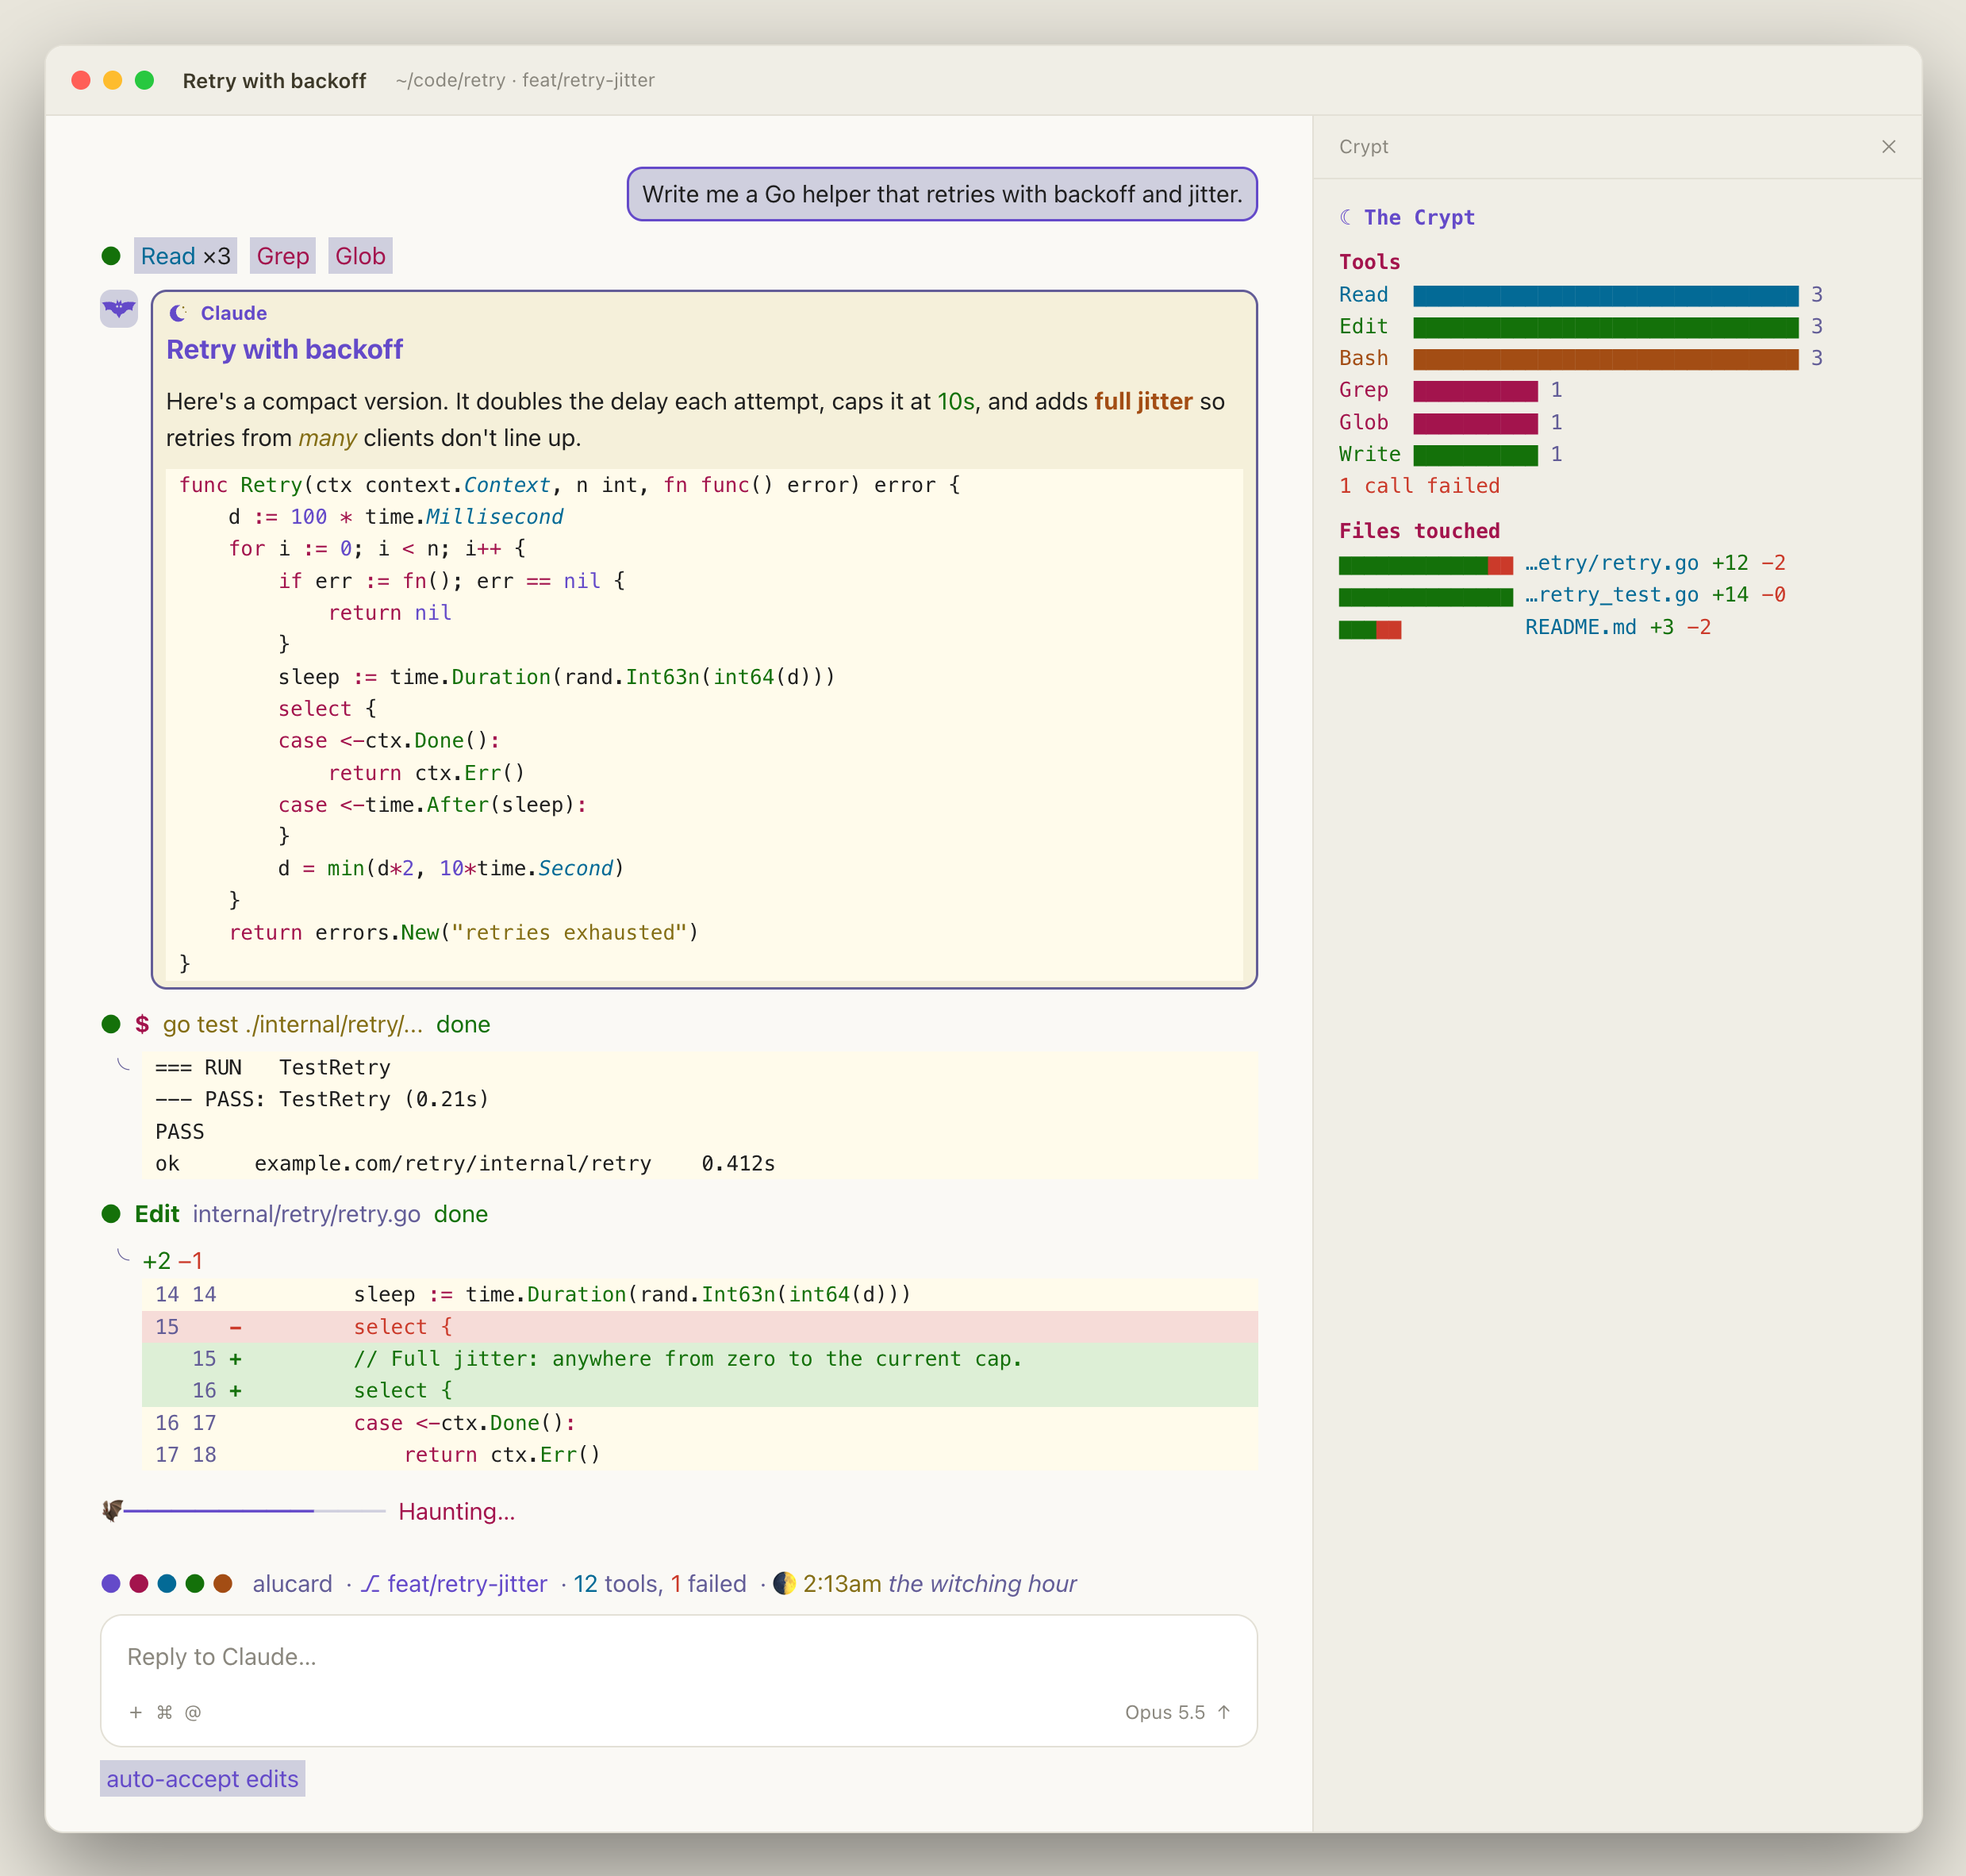
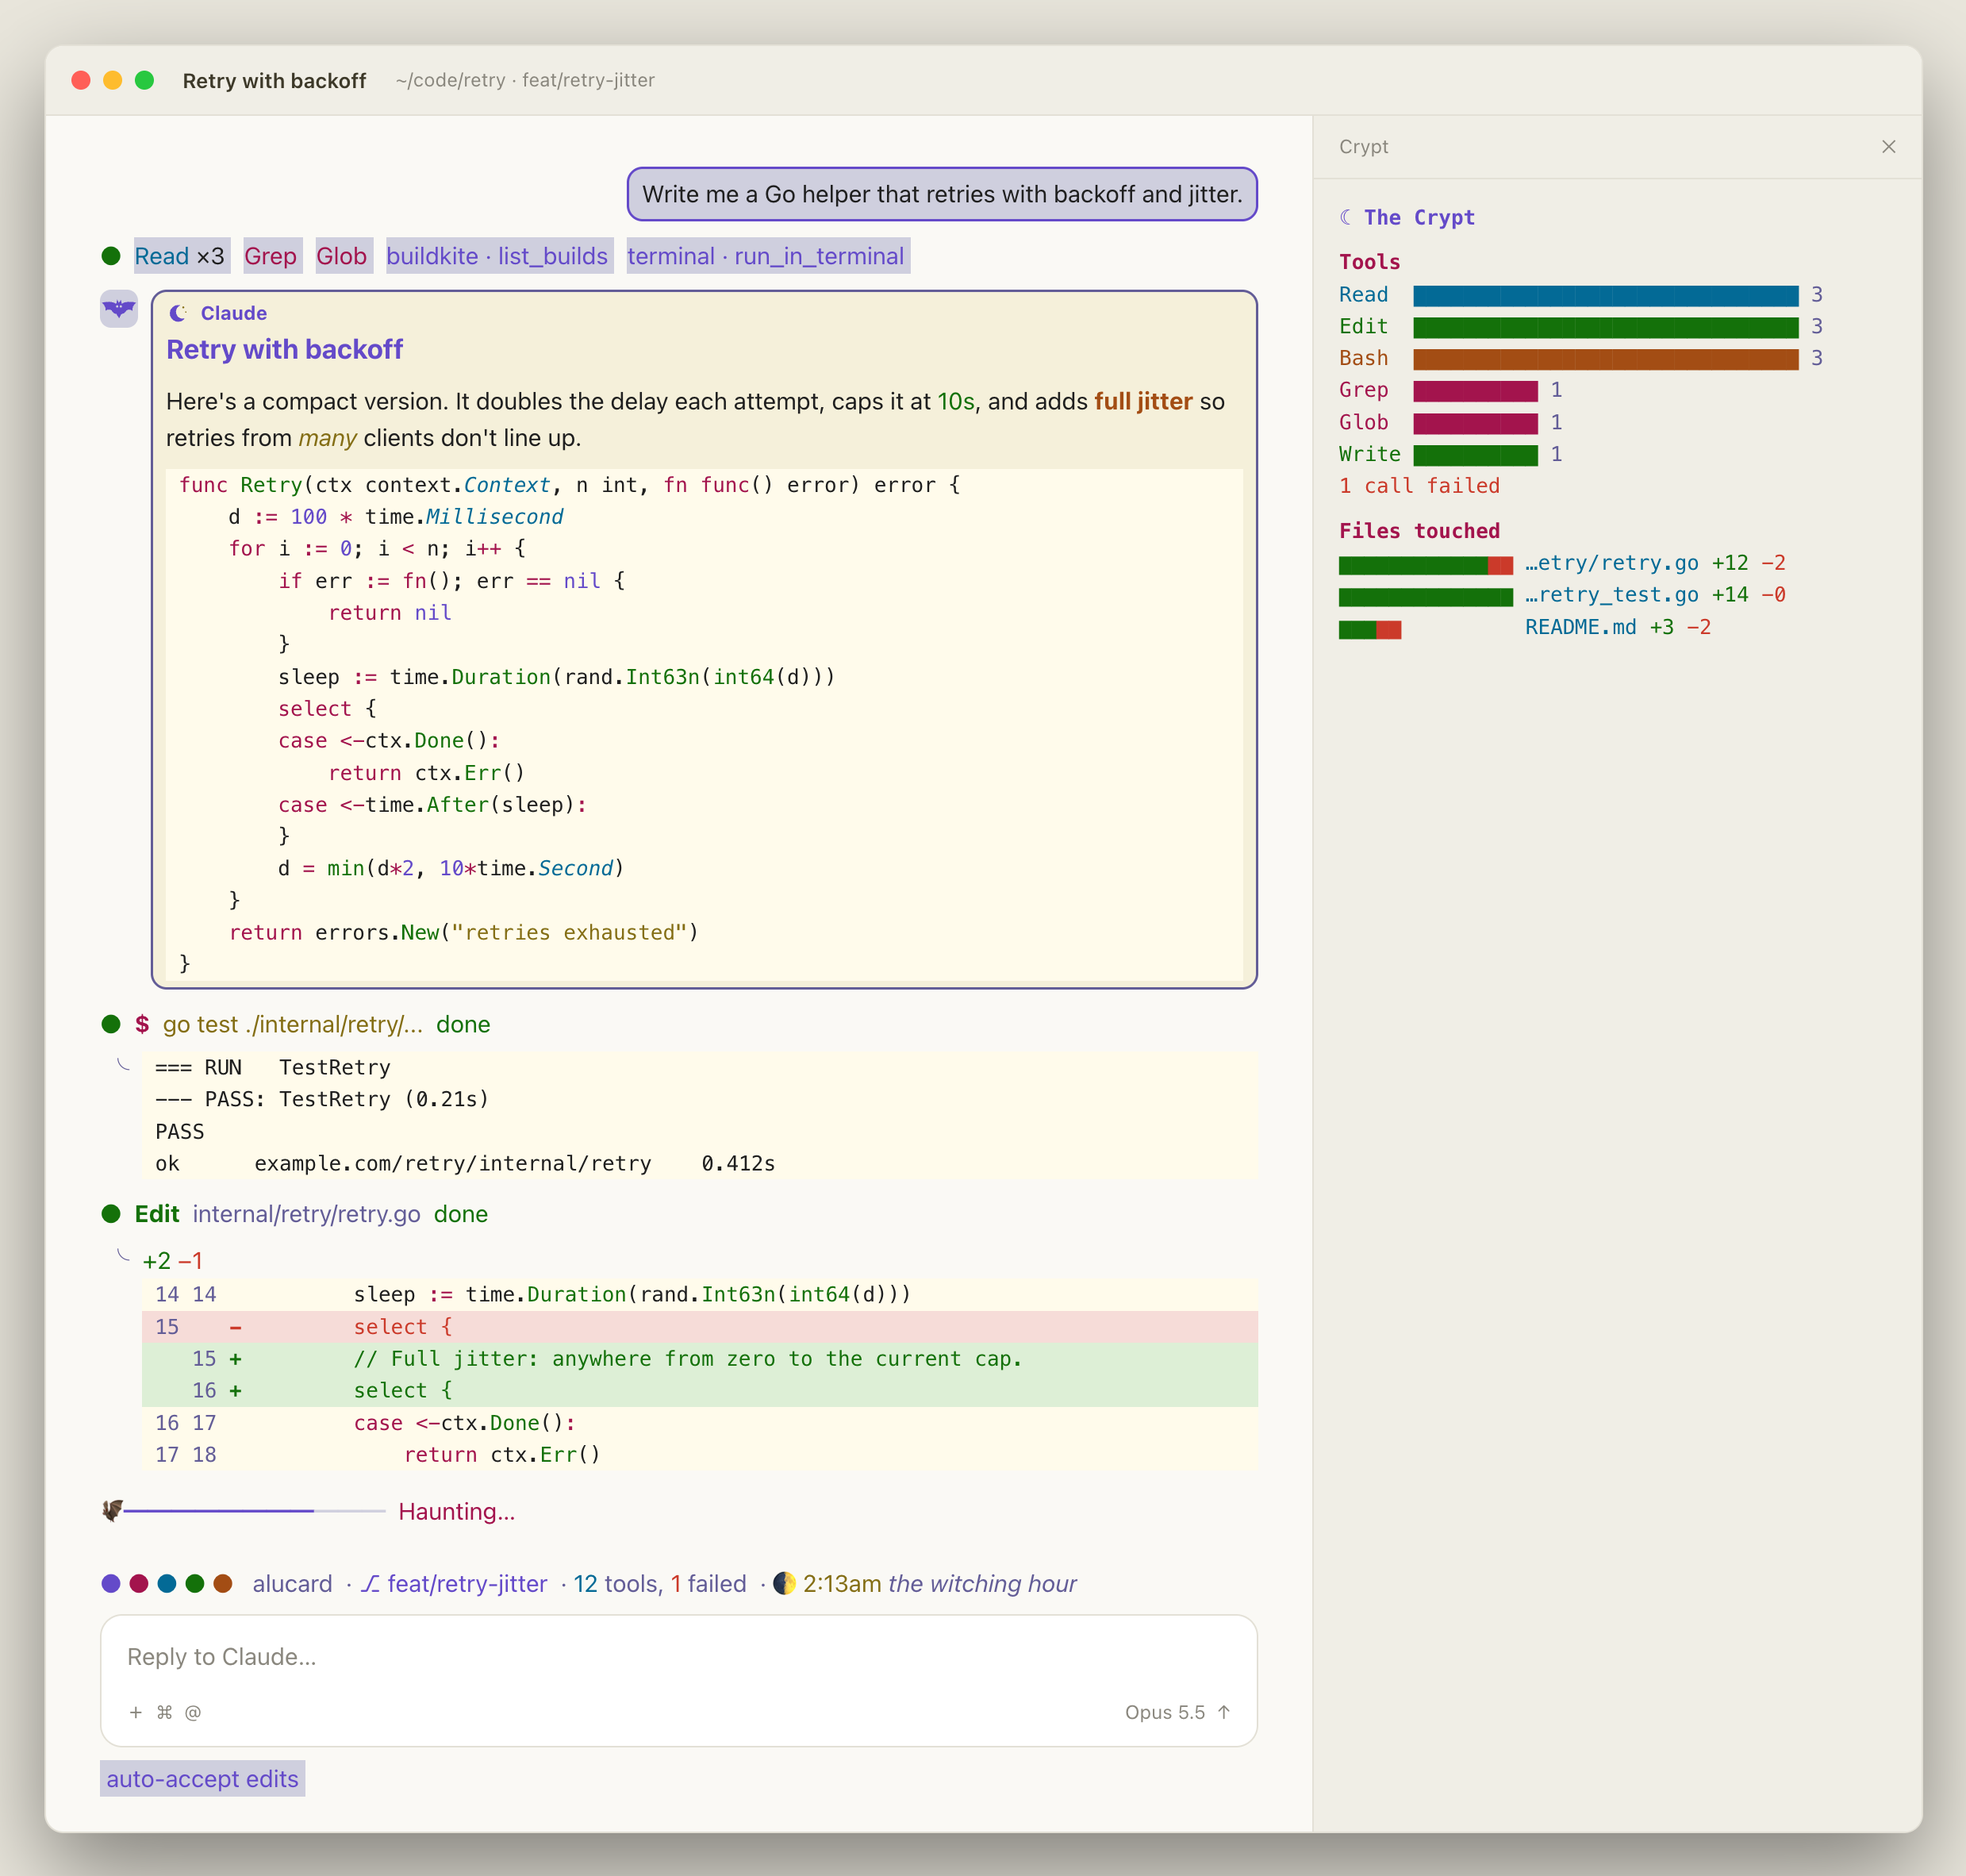
Keep tool chips on one line and name MCP tools server · tool
Long MCP names like mcp__plugin_buildkite-tools_buildkite__list_builds
wrapped inside their chips, so a row's chips broke and misaligned. Chips
now truncate instead of wrapping, the row wraps between chips, and MCP
tools read as server · tool (a plugin's prefix and connector UUIDs dropped)
in chips, the call row and the crypt pane.

Changed region(s): [[0.0621, 0.1235, 0.4661, 0.1544]]

diff --git a/hooks/register.tsx b/hooks/register.tsx
@@ -20,7 +20,7 @@ import {
   themed,
 } from './tokens'
 import type { Palette } from './tokens'
-import { changeCounts, drawGroup, drawResult, toolColor } from './tools'
+import { changeCounts, drawGroup, drawResult, toolColor, toolName } from './tools'
 
 const STORE_KEY = 'settings'
 const settings = atom({ plugin: 'dracula', key: 'settings' } as const, {
@@ -87,6 +87,11 @@ function draw(dracula: () => JSX.Element, plain: () => JSX.Element): JSX.Element
   } catch {
     return plain()
   }
+}
+
+/** Text cut to a width with an ellipsis, or padded out to it. */
+function fit(text: string, width: number): string {
+  return text.length > width ? `${text.slice(0, width - 1)}…` : text.padEnd(width)
 }
 
 /** The checkout's branch, or null outside a git repository. */
@@ -442,7 +447,7 @@ export const register: Register = on => {
           </Text>
         ) : (
           <Text color={toolColor(e.props.tool, c)} bold>
-            {e.props.tool}
+            {toolName(e.props.tool)}
           </Text>
         )}
         {arg.length > 0 && (
@@ -628,7 +633,7 @@ export const register: Register = on => {
     const width = Math.max(20, e.props.bodyColumns)
     const tools = Object.entries(stats.tools).sort((a, b) => b[1] - a[1])
     const files = [...stats.files].sort((a, b) => b.added + b.removed - (a.added + a.removed))
-    const nameWidth = Math.min(14, Math.max(4, ...tools.map(([tool]) => tool.length)))
+    const nameWidth = Math.min(14, Math.max(4, ...tools.map(([tool]) => toolName(tool).length)))
     const toolMax = Math.max(1, ...tools.map(([, n]) => n))
     const barRoom = Math.max(4, width - nameWidth - 8)
     const fileMax = Math.max(1, ...files.map(file => file.added + file.removed))
@@ -653,7 +658,7 @@ export const register: Register = on => {
             </Text>
             {tools.map(([tool, n]) => (
               <Text>
-                <Text color={toolColor(tool, c)}>{tool.slice(0, nameWidth).padEnd(nameWidth)}</Text>{' '}
+                <Text color={toolColor(tool, c)}>{fit(toolName(tool), nameWidth)}</Text>{' '}
                 <Text color={toolColor(tool, c)}>{'█'.repeat(Math.max(1, Math.round((n / toolMax) * barRoom)))}</Text>
                 <Text color={c.comment}> {n}</Text>
               </Text>

diff --git a/hooks/tools.tsx b/hooks/tools.tsx
@@ -12,7 +12,21 @@ export function toolColor(tool: string, c: Palette): string {
   if (tool === 'Grep' || tool === 'Glob' || tool === 'LS') return c.pink
   if (tool.startsWith('Web')) return c.purple
   if (tool === 'Agent' || tool === 'Task') return c.yellow
+  if (tool.startsWith('mcp__')) return c.purple
   return c.comment
+}
+
+/**
+ * A tool's name as a person reads it: an MCP tool's `mcp__server__tool` becomes
+ * `server · tool`, with a plugin's `plugin_<plugin>_` prefix dropped and an id-like
+ * server name (a connector's UUID) left out; built-in names pass through.
+ */
+export function toolName(tool: string): string {
+  const m = /^mcp__(.+?)__(.+)$/.exec(tool)
+  if (!m) return tool
+  const server = (m[1] ?? '').replace(/^plugin_[^_]+_/, '')
+  const name = m[2] ?? ''
+  return /^[0-9a-f]{8}-[0-9a-f-]{27,}$/i.test(server) || !server ? name : `${server} · ${name}`
 }
 
 type Hunk = { oldStart: number; newStart: number; lines: string[] }
@@ -314,13 +328,16 @@ export function drawGroup(calls: readonly GroupCall[], isActive: boolean, kit: K
   const running = isActive && calls.some(call => call.isRunning)
 
   return (
-    <Box flexDirection="row" gap={1}>
+    // Chips keep to one line each; a row with more than fits wraps between them.
+    <Box flexDirection="row" flexWrap="wrap" alignItems="center" gap={1}>
       <Text color={running ? c.orange : errors > 0 ? c.red : c.green}>●</Text>
       {[...tally].map(([tool, count]) => (
-        <Text backgroundColor={c.currentLine} color={toolColor(tool, c)}>
-          {` ${tool}`}
-          <Text color={c.foreground}>{count > 1 ? ` ×${count} ` : ' '}</Text>
-        </Text>
+        <Box flexShrink={0}>
+          <Text backgroundColor={c.currentLine} color={toolColor(tool, c)} wrap="truncate-end">
+            {` ${toolName(tool)}`}
+            <Text color={c.foreground}>{count > 1 ? ` ×${count} ` : ' '}</Text>
+          </Text>
+        </Box>
       ))}
       {errors > 0 && <Text color={c.red}>{errors === 1 ? '1 error' : `${errors} errors`}</Text>}
     </Box>

diff --git a/hooks/dracula.test.tsx b/hooks/dracula.test.tsx
@@ -221,6 +221,33 @@ test('a folded run of calls is one row of tool chips', async ($, on) => {
   await ui.unmount()
 })
 
+test('MCP tool chips read server · tool, stay on one line and wrap between chips', async ($, on) => {
+  engine(on)
+  await $.session.start({ cwd: '/', surface: 'desktop', isInteractive: true })
+
+  const call = (tool: string) => ({ tool, input: {}, isRunning: false, isErrored: false, isInterrupted: false })
+  const ui = await $.ui.mount({
+    plugin: 'dracula',
+    component: 'ToolGroup',
+    surface: 'desktop',
+    props: {
+      calls: [
+        call('mcp__plugin_buildkite-tools_buildkite__list_builds'),
+        call('mcp__terminal__run_in_terminal'),
+        call('mcp__1a59c906-04da-521d-bda7-7f71b9f9e01c__batch'),
+      ],
+      isActive: false,
+      isExpanded: false,
+    },
+  })
+  expect(await ui.find({ type: 'Text', text: /^ buildkite · list_builds $/ })).toBeTruthy()
+  expect(await ui.find({ type: 'Text', text: /^ terminal · run_in_terminal $/ })).toBeTruthy()
+  const chip = (await ui.find({ type: 'Text', text: /^ batch $/ })) as { props?: { wrap?: string } } | undefined
+  expect(chip?.props?.wrap).toBe('truncate-end')
+  expect(await ui.find({ type: 'Box', props: { flexWrap: 'wrap' } })).toBeTruthy()
+  await ui.unmount()
+})
+
 test('/dracula light draws in Alucard, /dracula dark brings Dracula back', async ($, on) => {
   engine(on)
   await $.session.start({ cwd: '/', surface: 'desktop', isInteractive: true })

diff --git a/scripts/dump.test.tsx b/scripts/dump.test.tsx
@@ -65,7 +65,15 @@ const SITES = [
     props: {
       isActive: false,
       isExpanded: false,
-      calls: ['Read', 'Read', 'Read', 'Grep', 'Glob'].map(tool => ({
+      calls: [
+        'Read',
+        'Read',
+        'Read',
+        'Grep',
+        'Glob',
+        'mcp__plugin_buildkite-tools_buildkite__list_builds',
+        'mcp__terminal__run_in_terminal',
+      ].map(tool => ({
         tool,
         input: {},
         isRunning: false,

diff --git a/scripts/screenshots.py b/scripts/screenshots.py
@@ -45,7 +45,7 @@ def render(node, unit):
     inner = "".join(render(k, unit) for k in kids)
     if t == "Box":
         s = ["display:flex", f"flex-direction:{p.get('flexDirection', 'row')}"]
-        for key, css in [("justifyContent", "justify-content"), ("alignItems", "align-items")]:
+        for key, css in [("justifyContent", "justify-content"), ("alignItems", "align-items"), ("flexWrap", "flex-wrap")]:
             if key in p:
                 s.append(f"{css}:{p[key]}")
         if "flexGrow" in p:
